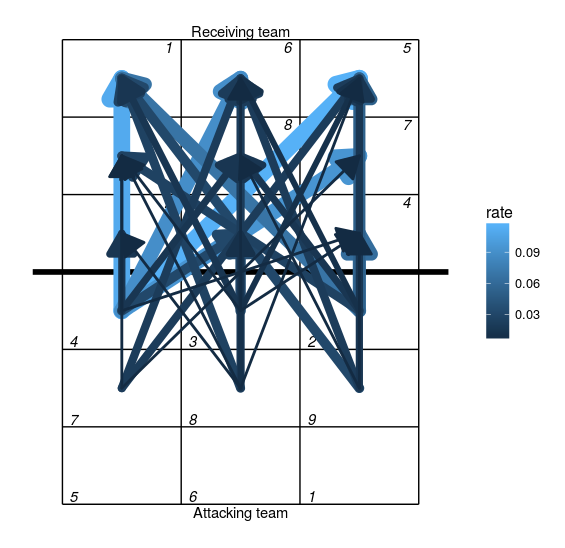
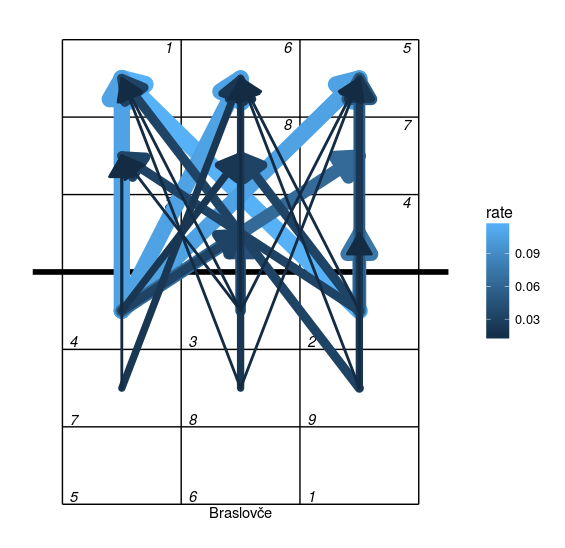
plots updated

diff --git a/README.md b/README.md
@@ -53,15 +53,17 @@ table(unique(serve_run_info[,c("run_id","run_length")])$run_length)
 Heatmap of attack rate by court position:
 
 ```R
-attack_rate <- as.data.frame(xtabs(~start_zone,data=subset(plays(x),skill=="Attack")),
-    stringsAsFactors=FALSE)
-attack_rate$start_zone <- as.numeric(attack_rate$start_zone)
-attack_rate$rate <- attack_rate$Freq/sum(attack_rate$Freq)
-
-## plot
-attack_rate <- cbind(attack_rate,ggxy(attack_rate$start_zone,type="start"))
-ggplot(attack_rate,aes(x,y,fill=rate))+geom_tile()+ggcourt()+
-    scale_fill_gradient2(name="Attack rate")
+## calculate attack frequency by zone, per team
+attack_rate <- ddply(subset(plays(x),skill=="Attack"),.(team),function (z)
+  ddply(z,.(start_zone),function (w)
+    data.frame(rate=nrow(w)/nrow(z))))
+## add x,y coordinates associated with the zones
+attack_rate <- cbind(attack_rate,ggxy(attack_rate$start_zone,end="lower"))
+## for team 2, these need to be on the top half of the diagram
+tm2 <- attack_rate$team==attack_rate$team[2]
+attack_rate[tm2,c("x","y")] <- ggxy(attack_rate$start_zone,end="upper")[tm2,]
+ggplot(attack_rate,aes(x,y,fill=rate))+geom_tile()+ggcourt(labels=x$meta$teams$team)+
+  scale_fill_gradient2(name="Attack rate")
 ```
 
 ![Attack rate heatmap](./vignettes/attack_rate_heatmap.png?raw=true "attack rate heatmap")
@@ -71,24 +73,24 @@ Or using arrows to show the starting and ending zones of attacks:
 
 ```R
 ## tabulate attacks by starting and ending zone
-attack_rate <- as.data.frame(xtabs(~start_zone+end_zone,data=subset(plays(x),skill=="Attack")),
-  stringsAsFactors=FALSE)
+attack_rate <- as.data.frame(xtabs(~start_zone+end_zone,data=subset(plays(x),skill=="Attack" &
+  team==x$meta$teams$team[1])),stringsAsFactors=FALSE)
 attack_rate$start_zone <- as.numeric(attack_rate$start_zone)
 attack_rate$end_zone <- as.numeric(attack_rate$end_zone)
 attack_rate$rate <- attack_rate$Freq/sum(attack_rate$Freq)
 attack_rate <- attack_rate[attack_rate$Freq>0,]
 ## starting x,y coordinates
-temp <- ggxy(attack_rate$start_zone,type="start")
+temp <- ggxy(attack_rate$start_zone,end="lower")
 names(temp) <- c("sx","sy")
 attack_rate <- cbind(attack_rate,temp)
 ## ending x,y coordinates
-temp <- ggxy(attack_rate$end_zone,type="end")
+temp <- ggxy(attack_rate$end_zone,end="upper")
 names(temp) <- c("ex","ey")
 attack_rate <- cbind(attack_rate,temp)
 ## plot in reverse order so largest arrows are on the bottom
 attack_rate <- attack_rate[order(attack_rate$rate,decreasing=TRUE),]
 
-p <- ggplot(attack_rate,aes(x,y,col=rate))+ggcourt()+scale_fill_gradient2(name="Attack rate")
+p <- ggplot(attack_rate,aes(x,y,col=rate))+ggcourt(labels=c(x$meta$teams$team[1],""))
 for (n in 1:nrow(attack_rate))
   p <- p+geom_path(data=data.frame(
       x=c(attack_rate$sx[n],attack_rate$ex[n]),
